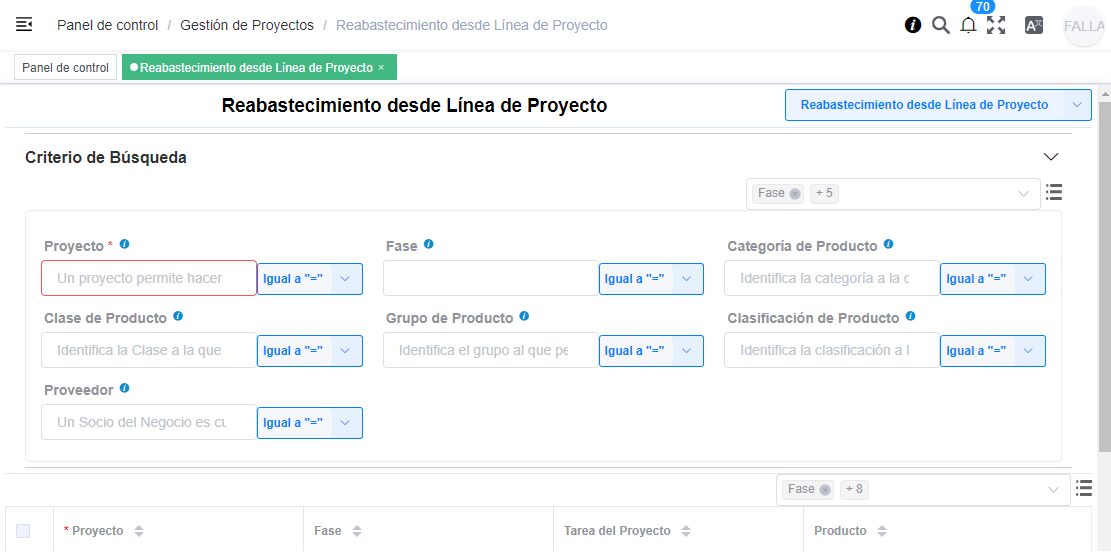
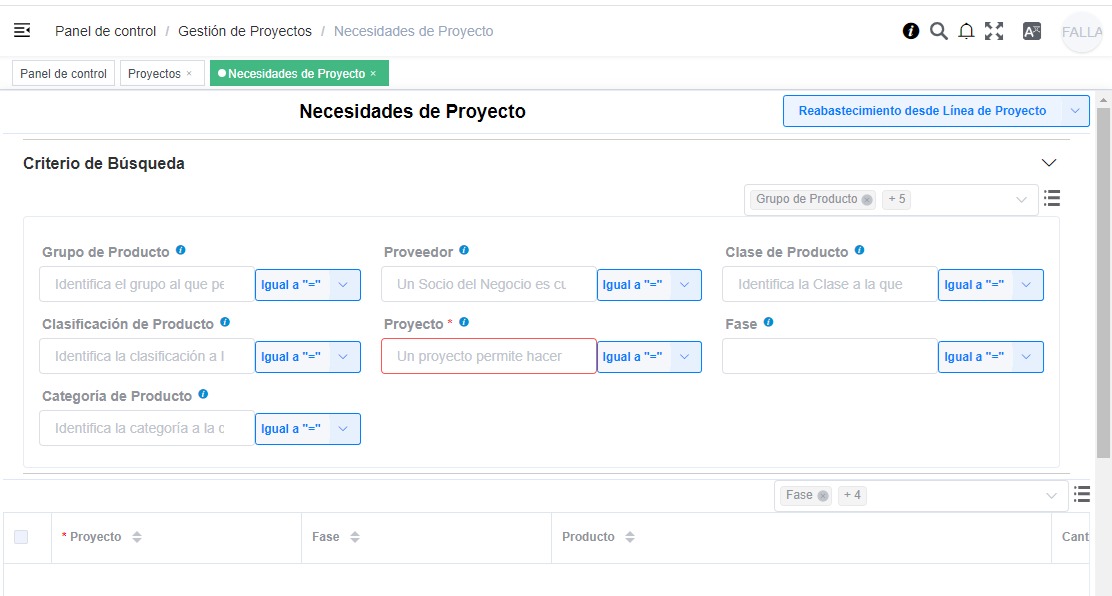
Actualizo imagenes y texto de vertical construcción

diff --git a/src/docs/verticals/construction-management/Budgeting.md b/src/docs/verticals/construction-management/Budgeting.md
@@ -26,6 +26,16 @@ En las fases se crean las líneas de proyecto listando los productos necesarios 
 
 Para lograr un circuito óptimo y eficiente de selección de productos en las líneas, es posible utilizar un proceso denominado "**Agregar Productos a Fase de Proyecto**". Este SB permite seleccionar los productos a través de parámetros para agilizar la selección y definición en las fases.
 
+El smart browser "Agregar Productos a Fase de Proyecto" se ejecuta desde el cabezal del proyecto, y permite seleccionar productos (sólo productos "Activos"), y para cada uno definir una cantidad.
+
+Al procesar, se debe seleccionar la Fase, y se crea una línea de fase de proyecto por cada línea de producto seleccionada en el SB, donde cada línea tendrá los datos siguientes:
+
+Producto
+Cantidad Planeada
+Precio Planeado (si se encontró precio en la versión lista de precios del proyecto)
+
+![Agregar Productos a Fase de Proyecto](/assets/img/docs/construction-management/com-image8.png)
+
 Cada producto tiene definido un determinado "Tipo de costo" (ejemplo: tipo de costo Herramientas).
 
 Este tipo de costo define un costo para el producto en particular y ese costo multiplicado por la cantidad que se encuentre definido en la línea de la fase del proyecto será el que se muestre como importe costo de la línea del proyecto.
@@ -40,10 +50,21 @@ Determinando estas dos entidades y de acuerdo a la unidad de medida (y cantidad)
 
 Esta función propone un cálculo eficiente (aproximado) de la cantidad de recursos (mano de obra) necesaria para un determinado proyecto).
 
-## Reabastecimiento desde Línea de Proyecto
+Cuando el producto no tiene definida una lista de materiales (LDM), estos campos (Duración y Unidad de Duración) se pueden modificar manualmente.
 
-Desde el SB Reabastecimiento desde Línea de Proyecto es posible seleccionar el proyecto y la Fase (opcional). Al aceptar se desplegará el listado de todo lo que necesita alimentar ese proyecto (o Fase) para llevarse a cabo (los productos).
+Cuando el producto tiene definida una LDM (check 'Lista de Materiales' está marcado), estos campos se muestran como sólo lectura y no se pueden modificar manualmente. En este caso se van a definir automáticamente, según la sumatoria de las duraciones de los productos que estén definidos en las lineas de la LDM.
+
+El sistema dispara las verificaciones para actualizar la duración de los productos que contengan al producto modificado en su LDM.
+
+Estas verificaciones se ejecutan cuando se realizan las acciones siguientes:
+
+* Se crea un producto o se modifica uno existente
+* Se crea o se borra una línea de la lista de materiales de un producto
+
+## Necesidades de Proyecto
+
+Desde el SB Necesidades de Proyecto es posible seleccionar el proyecto y la Fase (opcional). Al aceptar se desplegará el listado de todo lo que necesita alimentar ese proyecto (o Fase) para llevarse a cabo (los productos).
 
 Luego, desde los parámetros es posible seleccionar si se desea generar una Orden de compra (para abastecer con los productos necesarios al proyecto/fase) o bien una requisición (una solicitud interna de compra).
 
-![Reabastecimiento](/assets/img/docs/construction-management/com-image3.png)
+![Necesidades de Proyecto](/assets/img/docs/construction-management/com-image3.png)
